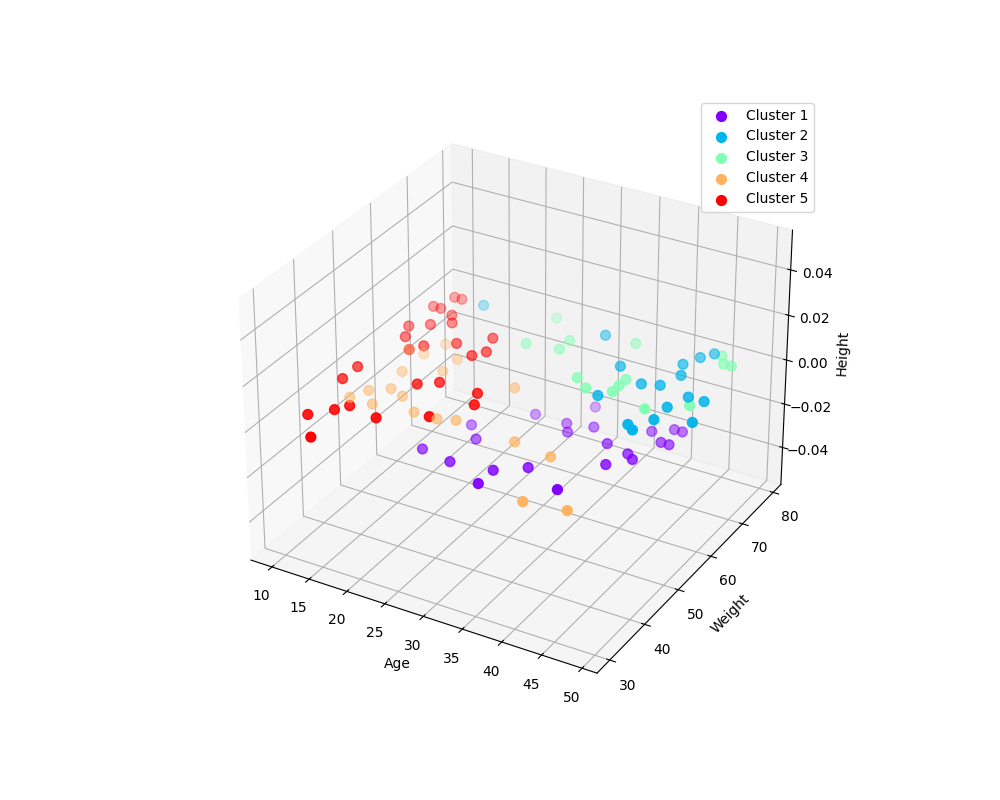
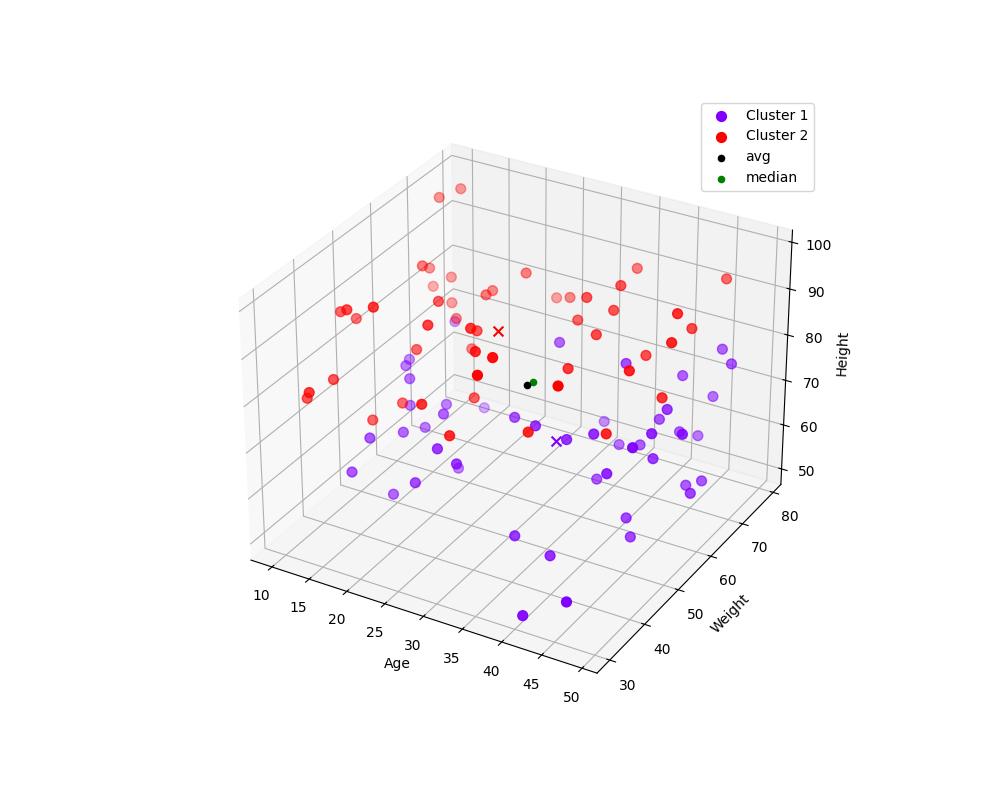
claster

diff --git a/lecture/clastering/claster.py b/lecture/clastering/claster.py
@@ -1,3 +1,20 @@
+"""
+Perform K-means clustering on a dataset and visualize the results.
+
+This module provides functions to:
+- Read CSV files into numpy arrays
+- Perform K-means clustering algorithm 
+- Visualize clustering results in a 3D scatter plot
+
+Functions:
+- read_csv_to_array: Load data from a CSV file into a numpy array
+- klastering: Perform K-means clustering on input data
+- visual: Create a 3D visualization of clustered data points
+
+The main script demonstrates clustering on age, weight, and height data,
+calculating and displaying cluster statistics and visualizations.
+"""
+
 import numpy as np
 import pandas as pd
 import matplotlib.pyplot as plt
@@ -27,36 +44,53 @@ def klastering(data, k = 2):
         if np.all(centroids == new_centroids):
             break
         centroids = new_centroids
-    return labels
+    print(f"final centroids: \n{centroids}\n")
+    return labels, centroids
 
-def visual(data, labels, k=2):
+def visual(data, centroids, labels, k=2):
     colors = plt.cm.rainbow(np.linspace(0, 1, k))
     
     fig = plt.figure(figsize=(10, 8))
-    ax = fig.add_subplot(111, projection='3d')
+    ax = fig.add_subplot(1, 1, 1, projection='3d')
     for i in range(k):
         cluster_points = data[labels == i]
         ax.scatter(
-                   cluster_points[:, 0],
-                   cluster_points[:, 1],
+                   *cluster_points.T.tolist(),
                    color=colors[i],
                    label=f'Cluster {i+1}',
                    s=50)
-    
+        ax.scatter(*centroids[i], color=colors[i], s=50, marker='x')
+
     ax.set_xlabel('Age')
     ax.set_ylabel('Weight')
     ax.set_zlabel('Height')
-
-    plt.legend()
-    plt.grid(True)
-    plt.savefig('lecture/clastering/result.png')
+    return ax
 
 
 if __name__ == "__main__":
-    k = 5
-    csv_file_path = "lecture/clastering/input.csv"
-    data_array, column_names = read_csv_to_array(csv_file_path, delimiter=';', has_header=True)
-    labels = klastering(data_array[:, 1:], k)
-    visual(data_array[:, 1:], labels, k)
+    k = 2
+    path = "./lecture/clastering/"
+    csv_file_path = "input.csv"
+
+    data_array, column_names = read_csv_to_array(path+csv_file_path, delimiter=';', has_header=True)
+    labels, centroids = klastering(data_array[:, 1:], k)
+    
+    ax = visual(data_array[:, 1:], centroids, labels, k)
     for data, label in zip(data_array, labels):
-        print(f"Name: {data[0]}, Age: {data[1]}, Weight: {data[2]}, Height: {data[3]}, Class: {label}")
+        print(f"Name: {data[0]}\t\tAge: {data[1]}\tWeight: {data[2]}\tHeight: {data[3]}\tClass: {label}")
+
+    avg = [float(np.mean(col)) for col in data_array.T[1:]]
+    median = [float(np.median(col)) for col in data_array.T[1:]]
+    var = [float(np.var(col)) for col in data_array.T[1:]]
+
+    print(f"\nAverage:\nAge: {avg[0]:.3}\tWeight: {avg[1]:.3}\tHeight: {avg[2]:.3}")
+    print(f"\nMedian:\nAge: {median[0]:.3}\tWeight: {median[1]:.3}\tHeight: {median[2]:.3}")
+    print(f"\nVariance:\nAge: {var[0]:.3}\tWeight: {var[1]:.3}\tHeight: {var[2]:.3}")
+
+    ax.scatter(*avg, color='black', label='avg')
+    ax.scatter(*median, color='green', label='median')
+
+    plt.legend()
+    plt.grid(True)
+
+    plt.savefig(path+"result.png")
